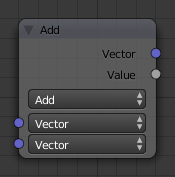
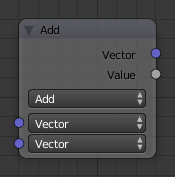
blender render material screenshots
git-svn-id: https://svn.blender.org/svnroot/bf-manual/trunk@3015 c4de1f47-6596-e411-a384-0024e86c2797

diff --git a/blender_docs/manual/render/blender_render/materials/properties/preview.rst b/blender_docs/manual/render/blender_render/materials/properties/preview.rst
@@ -37,32 +37,26 @@ Examples
 
 .. list-table::
 
-   * - .. figure:: /images/material-matmenu-preview-flat.jpg
-          :width: 200px
+   * - .. figure:: /images/render_blender-render_materials_properties_preview_flat.png
 
           Plane preview.
 
-     - .. figure:: /images/material-matmenu-preview-sphere.jpg
-          :width: 200px
+     - .. figure:: /images/render_blender-render_materials_properties_preview_sphere.png
 
           Sphere preview.
 
-     - .. figure:: /images/material-matmenu-preview-cube.jpg
-          :width: 200px
+     - .. figure:: /images/render_blender-render_materials_properties_preview_cube.png
 
           Cube preview.
 
-   * - .. figure:: /images/material-matmenu-preview-monkey.jpg
-          :width: 200px
+   * - .. figure:: /images/render_blender-render_materials_properties_preview_monkey.png
 
           Monkey preview.
 
-     - .. figure:: /images/material-matmenu-preview-strands.jpg
-          :width: 200px
+     - .. figure:: /images/render_blender-render_materials_properties_preview_hair.png
 
           Hair Strands preview.
 
-     - .. figure:: /images/material-matmenu-preview-spheresky.jpg
-          :width: 200px
+     - .. figure:: /images/render_blender-render_materials_properties_preview_sky.png
 
           Sky Sphere preview.

diff --git a/blender_docs/manual/render/blender_render/materials/nodes/types/input/material.rst b/blender_docs/manual/render/blender_render/materials/nodes/types/input/material.rst
@@ -3,7 +3,7 @@
 Material Node
 *************
 
-.. figure:: /images/render_bi_material-node.jpg
+.. figure:: /images/render_blender-render_materials_nodes_input_material.png
    :align: right
 
    Material node.
@@ -62,8 +62,7 @@ Examples
 Using the Material Node with Specularity
 ----------------------------------------
 
-.. figure:: /images/render_bi_material-node-specular.jpg
-   :width: 250px
+.. figure:: /images/render_blender-render_materials_nodes_input_material_example.png
 
    Material Node using Specularity.
 

diff --git a/blender_docs/manual/render/blender_render/materials/nodes/types/input/texture.rst b/blender_docs/manual/render/blender_render/materials/nodes/types/input/texture.rst
@@ -3,7 +3,7 @@
 Texture Node
 ************
 
-.. figure:: /images/texture-node.jpg
+.. figure:: /images/render_blender-render_materials_nodes_input_texture.png
    :align: right
 
    Texture node.
@@ -38,8 +38,7 @@ Normal
 Example
 =======
 
-.. figure:: /images/texture-node-example.jpg
-   :width: 500px
+.. figure:: /images/render_blender-render_materials_nodes_input_texture_example.png
 
    Example of the applying Texture node.
 

diff --git a/blender_docs/manual/render/blender_render/materials/nodes/types/input/geometry.rst b/blender_docs/manual/render/blender_render/materials/nodes/types/input/geometry.rst
@@ -67,8 +67,7 @@ Front/Back
 Geometry Node Example using a UV image
 ======================================
 
-.. figure:: /images/geometry-node-example.jpg
-   :width: 500px
+.. figure:: /images/render_blender-render_materials_nodes_input_geometry_example.png
 
    Setup to render a UV-Mapped Image Texture.
 

diff --git a/blender_docs/manual/render/blender_render/materials/nodes/types/input/extendend_material.rst b/blender_docs/manual/render/blender_render/materials/nodes/types/input/extendend_material.rst
@@ -3,9 +3,8 @@
 Extended Material Node
 **********************
 
-.. figure:: /images/extended-material-node.jpg
+.. figure:: /images/render_blender-render_materials_nodes_input_extendend-material.png
    :align: right
-   :width: 200px
 
    Extended Material node.
 

diff --git a/blender_docs/manual/render/blender_render/materials/nodes/types/converter/sqeeze_value.rst b/blender_docs/manual/render/blender_render/materials/nodes/types/converter/sqeeze_value.rst
@@ -3,7 +3,7 @@
 Squeeze Value Node
 ******************
 
-.. figure:: /images/material-convertor-node-squeezevalue.jpg
+.. figure:: /images/render_blender-render_materials_nodes_converter_sqeeze-value.png
    :align: right
 
    Squeeze Value node.

diff --git a/blender_docs/manual/render/blender_render/materials/nodes/types/input/lamp_data.rst b/blender_docs/manual/render/blender_render/materials/nodes/types/input/lamp_data.rst
@@ -3,8 +3,8 @@
 Lamp Data Node
 **************
 
-.. figure:: /images/bi_nodes_lamp-data.jpg
-   :width: 180px
+.. figure:: /images/render_blender-render_materials_nodes_input_lamp-data.png
+   :align: right
 
    Lamp Data node.
 

diff --git a/blender_docs/manual/render/blender_render/materials/nodes/types/output/output.rst b/blender_docs/manual/render/blender_render/materials/nodes/types/output/output.rst
@@ -3,7 +3,7 @@
 Output Node
 ***********
 
-.. figure:: /images/render_bi_material-output-node.jpg
+.. figure:: /images/render_blender-render_materials_nodes_output.png
    :align: right
 
    Output material node.

diff --git a/blender_docs/manual/render/blender_render/materials/nodes/types/vector/mapping.rst b/blender_docs/manual/render/blender_render/materials/nodes/types/vector/mapping.rst
@@ -3,7 +3,7 @@
 Mapping Node
 ************
 
-.. figure:: /images/material-vector-node-mapping.png
+.. figure:: /images/render_blender-render_materials_nodes_vector_mapping.png
 
    Mapping node.
 

diff --git a/blender_docs/manual/render/blender_render/materials/nodes/types/input/camera_data.rst b/blender_docs/manual/render/blender_render/materials/nodes/types/input/camera_data.rst
@@ -4,6 +4,7 @@ Camera Data Node
 ****************
 
 .. figure:: /images/camera-data-node.jpg
+   :align: right
 
    Camera Data node.
 
